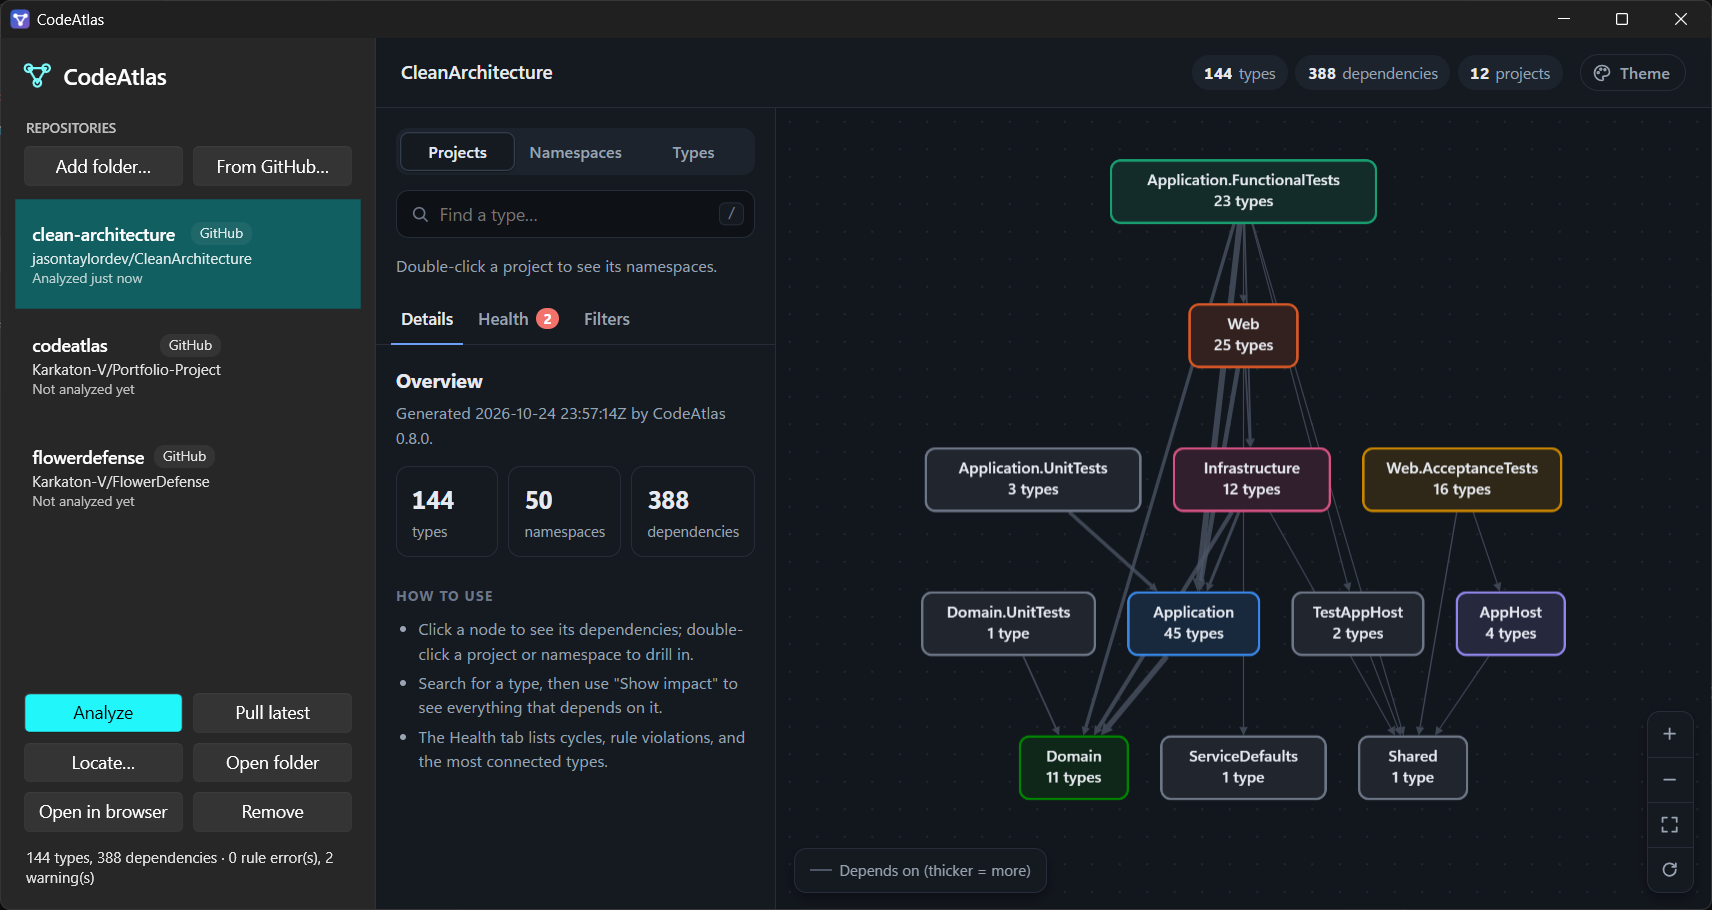
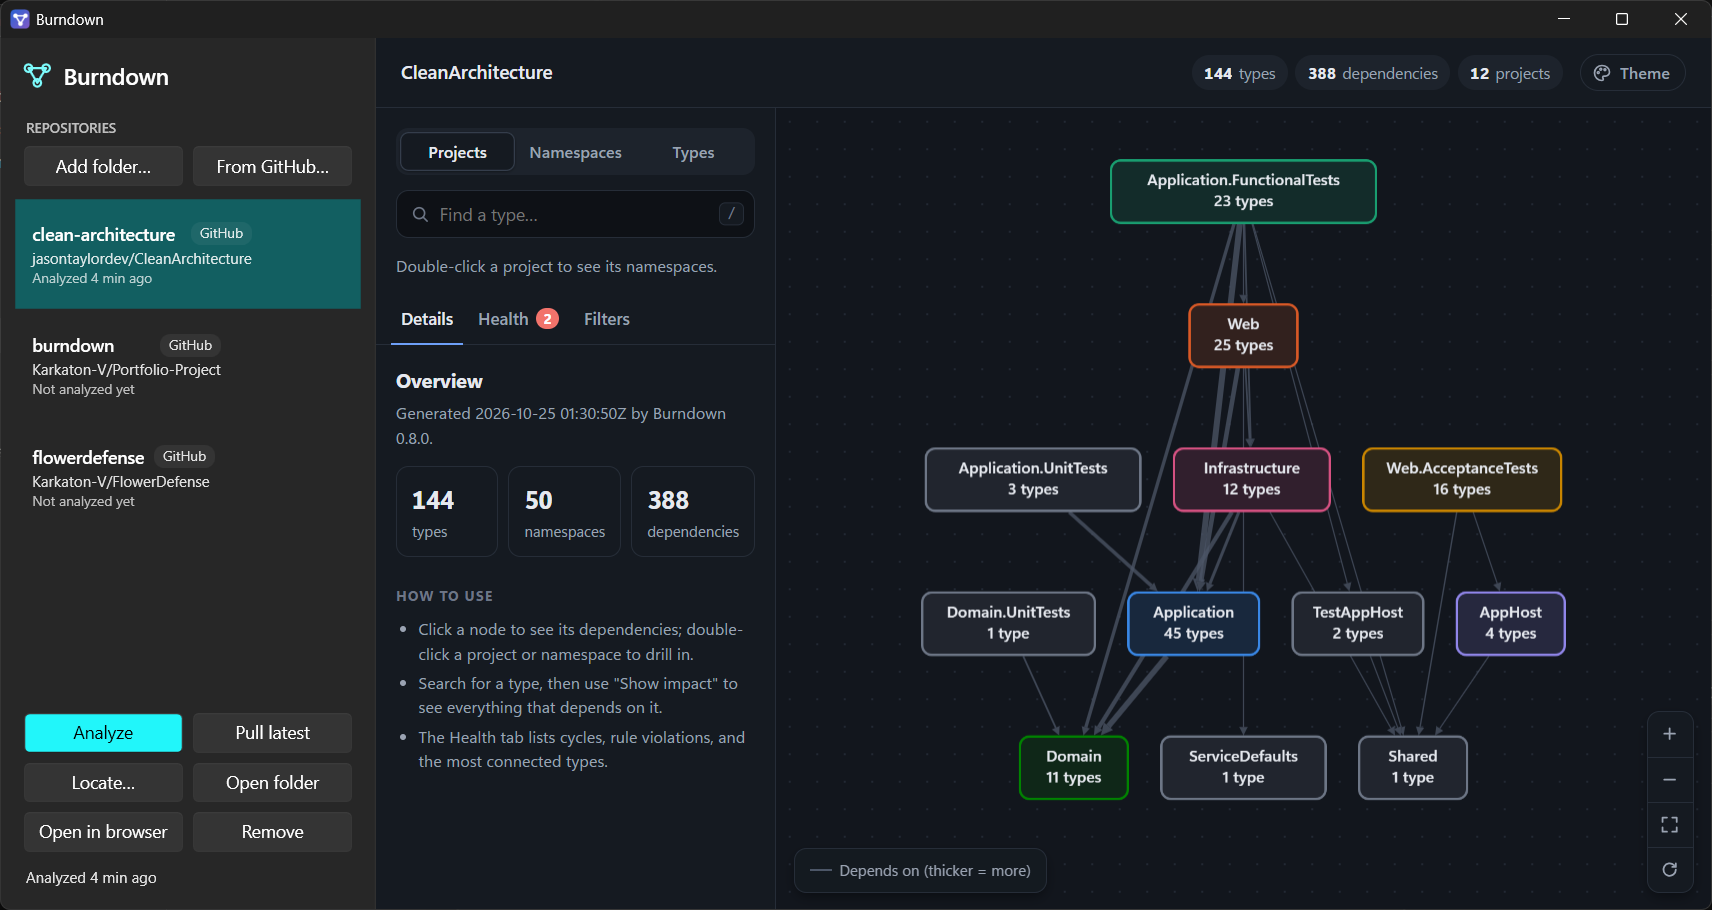
Rename CodeAtlas to Burndown
A nod to burndown charts: Burndown shows how much tangle is left in a
solution (cycles, rule violations, heavily depended-on types) so you can
burn it down.

- Desktop app is Burndown.exe; the CLI command is `burndown` (package
  Burndown.Tool, default output burndown-report.html)
- Report header, page title, SARIF tool name, README, and screenshots
- CI and the analyze workflow build and run burndown.dll
- C# namespaces, codeatlas.json, ~/.codeatlas, CODEATLAS_* variables, and
  the workflow file keep their names so existing setups keep working

diff --git a/src/CodeAtlas.Desktop/Views/MainWindow.xaml b/src/CodeAtlas.Desktop/Views/MainWindow.xaml
@@ -7,7 +7,7 @@
         xmlns:vm="clr-namespace:CodeAtlas.Desktop.ViewModels"
         mc:Ignorable="d"
         d:DataContext="{d:DesignInstance Type=vm:MainViewModel}"
-        Title="CodeAtlas"
+        Title="Burndown"
         Width="1440" Height="900" MinWidth="960" MinHeight="600"
         WindowStartupLocation="CenterScreen"
         Icon="/Assets/codeatlas.ico">
@@ -34,7 +34,7 @@
                         <Path Data="{StaticResource LogoGeometry}" Width="22" Height="22" Stretch="Uniform"
                               Stroke="{DynamicResource AccentTextFillColorPrimaryBrush}" StrokeThickness="1.8"
                               StrokeLineJoin="Round" StrokeStartLineCap="Round" StrokeEndLineCap="Round" />
-                        <TextBlock Text="CodeAtlas" FontSize="18" FontWeight="SemiBold" Margin="10,0,0,0" VerticalAlignment="Center" />
+                        <TextBlock Text="Burndown" FontSize="18" FontWeight="SemiBold" Margin="10,0,0,0" VerticalAlignment="Center" />
                     </StackPanel>
 
                     <TextBlock Text="REPOSITORIES" Style="{StaticResource SectionLabel}" Margin="2,22,0,8" />
@@ -71,7 +71,7 @@
                             <ColumnDefinition Width="*" />
                         </Grid.ColumnDefinitions>
                         <Button Grid.Column="0" Content="Locate…" HorizontalAlignment="Stretch" Click="Locate_Click"
-                                IsEnabled="{Binding CanLocate}" ToolTip="Tell CodeAtlas where this repository is on your computer" />
+                                IsEnabled="{Binding CanLocate}" ToolTip="Tell Burndown where this repository is on your computer" />
                         <Button Grid.Column="2" Content="Open folder" HorizontalAlignment="Stretch" Command="{Binding OpenFolderCommand}"
                                 ToolTip="Open the repository's folder" />
                     </Grid>

diff --git a/src/CodeAtlas.Report/Assets/report.js b/src/CodeAtlas.Report/Assets/report.js
@@ -1,4 +1,4 @@
-// CodeAtlas report viewer. The analysis already ran in C#; this script draws and filters the results.
+// Burndown report viewer. The analysis already ran in C#; this script draws and filters the results.
 // All names are inserted with textContent (never innerHTML), so source code can't inject markup.
 (() => {
   'use strict';
@@ -32,7 +32,7 @@
   const prefersDark = matchMedia('(prefers-color-scheme: dark)');
   const isDark = () => appearance.mode === 'dark' || (appearance.mode === 'auto' && prefersDark.matches);
 
-  // Inside the CodeAtlas desktop app (#embedded=1) the window already shows the app's name and logo.
+  // Inside the Burndown desktop app (#embedded=1) the window already shows the app's name and logo.
   if (hash.get('embedded') === '1') document.documentElement.dataset.embedded = 'true';
 
   function applyAppearance() {
@@ -745,7 +745,7 @@
     const namespaces = new Set(data.nodes.map(n => n.namespace)).size;
     setChildren(detailsPanel, 
       el('h2', { text: 'Overview' }),
-      el('p', { class: 'subtle', text: `Generated ${data.generatedAt}${data.toolVersion ? ` by CodeAtlas ${data.toolVersion}` : ''}.` }),
+      el('p', { class: 'subtle', text: `Generated ${data.generatedAt}${data.toolVersion ? ` by Burndown ${data.toolVersion}` : ''}.` }),
       el('div', { class: 'metrics' },
         metric(data.nodes.length, 'types'), metric(namespaces, 'namespaces'), metric(data.edges.length, 'dependencies')),
       el('h3', { text: 'How to use' }),

diff --git a/src/CodeAtlas.Report/Assets/report.html b/src/CodeAtlas.Report/Assets/report.html
@@ -3,8 +3,8 @@
 <head>
   <meta charset="utf-8">
   <meta name="viewport" content="width=device-width, initial-scale=1">
-  <meta name="generator" content="CodeAtlas">
-  <title>{{TITLE}} · CodeAtlas</title>
+  <meta name="generator" content="Burndown">
+  <title>{{TITLE}} · Burndown</title>
   <style>/*{{STYLES}}*/</style>
 </head>
 <body>
@@ -16,7 +16,7 @@
         <circle cx="18" cy="7" r="2.6" />
         <circle cx="12" cy="17" r="2.6" />
       </svg>
-      <span>CodeAtlas</span>
+      <span>Burndown</span>
     </div>
     <span class="divider" aria-hidden="true"></span>
     <h1 id="title"></h1>

diff --git a/src/CodeAtlas.Desktop/App.xaml b/src/CodeAtlas.Desktop/App.xaml
@@ -7,7 +7,7 @@
     <Application.Resources>
         <BooleanToVisibilityConverter x:Key="BoolToVisibility" />
 
-        <!-- The CodeAtlas mark: three connected nodes, as in the report header. -->
+        <!-- The Burndown mark: three connected nodes, as in the report header. -->
         <Geometry x:Key="LogoGeometry">M6,7 L12,17 M18,7 L12,17 M6,7 L18,7 M8.6,7 A2.6,2.6 0 1 1 3.4,7 A2.6,2.6 0 1 1 8.6,7 M20.6,7 A2.6,2.6 0 1 1 15.4,7 A2.6,2.6 0 1 1 20.6,7 M14.6,17 A2.6,2.6 0 1 1 9.4,17 A2.6,2.6 0 1 1 14.6,17</Geometry>
 
         <Style x:Key="SecondaryText" TargetType="TextBlock">

diff --git a/src/CodeAtlas.Desktop/Views/MainWindow.xaml.cs b/src/CodeAtlas.Desktop/Views/MainWindow.xaml.cs
@@ -27,7 +27,7 @@ public partial class MainWindow : Window
         // Program Files, so use the user's local app data. This must be set before the viewer starts.
         Viewer.CreationProperties = new CoreWebView2CreationProperties
         {
-            UserDataFolder = Path.Combine(Environment.GetFolderPath(Environment.SpecialFolder.LocalApplicationData), "CodeAtlas", "WebView2"),
+            UserDataFolder = Path.Combine(Environment.GetFolderPath(Environment.SpecialFolder.LocalApplicationData), "Burndown", "WebView2"),
         };
         Viewer.CoreWebView2InitializationCompleted += OnViewerInitialized;
 
@@ -58,9 +58,9 @@ public partial class MainWindow : Window
         {
             MessageBox.Show(this,
                 "The report viewer needs the Microsoft Edge WebView2 Runtime, which comes with Windows 11. " +
-                "Install it from https://developer.microsoft.com/microsoft-edge/webview2/ and restart CodeAtlas.\n\n" +
+                "Install it from https://developer.microsoft.com/microsoft-edge/webview2/ and restart Burndown.\n\n" +
                 e.InitializationException?.Message,
-                "CodeAtlas", MessageBoxButton.OK, MessageBoxImage.Warning);
+                "Burndown", MessageBoxButton.OK, MessageBoxImage.Warning);
             return;
         }
 
@@ -129,7 +129,7 @@ public partial class MainWindow : Window
         if (repo.Repo.Managed)
         {
             var answer = MessageBox.Show(this,
-                $"Remove {repo.Name} from CodeAtlas?\n\nCodeAtlas downloaded this repository to {repo.Repo.Path}. " +
+                $"Remove {repo.Name} from Burndown?\n\nBurndown downloaded this repository to {repo.Repo.Path}. " +
                 "Choose Yes to delete that copy too, or No to keep the files.",
                 "Remove repository", MessageBoxButton.YesNoCancel, MessageBoxImage.Question, MessageBoxResult.Cancel);
             if (answer != MessageBoxResult.Cancel)
@@ -138,7 +138,7 @@ public partial class MainWindow : Window
             }
         }
         else if (MessageBox.Show(this,
-                     $"Remove {repo.Name} from CodeAtlas? Your files at {repo.Repo.Path} aren't touched.",
+                     $"Remove {repo.Name} from Burndown? Your files at {repo.Repo.Path} aren't touched.",
                      "Remove repository", MessageBoxButton.OKCancel, MessageBoxImage.Question) == MessageBoxResult.OK)
         {
             _viewModel.Remove(repo, deleteClone: false);

diff --git a/src/CodeAtlas.Desktop/ViewModels/MainViewModel.cs b/src/CodeAtlas.Desktop/ViewModels/MainViewModel.cs
@@ -90,7 +90,7 @@ public sealed partial class MainViewModel : ObservableObject
             ReportUri = null;
             PlaceholderTitle = Repos.Count == 0 ? "Add a repository to get started" : "Pick a repository";
             PlaceholderText = Repos.Count == 0
-                ? "Add a folder that contains a C# solution, or pick one of your GitHub repositories. CodeAtlas maps how its types depend on each other."
+                ? "Add a folder that contains a C# solution, or pick one of your GitHub repositories. Burndown maps how its types depend on each other."
                 : "Choose a repository on the left to see its dependency map.";
             return;
         }
@@ -254,7 +254,7 @@ public sealed partial class MainViewModel : ObservableObject
 
     private bool CanOpen() => SelectedRepo is not null;
 
-    /// <summary>Removes a repository from the list. A clone CodeAtlas made can be deleted too.</summary>
+    /// <summary>Removes a repository from the list. A clone Burndown made can be deleted too.</summary>
     public void Remove(RepoViewModel repo, bool deleteClone)
     {
         _registry.Remove(repo.Name);
@@ -262,7 +262,7 @@ public sealed partial class MainViewModel : ObservableObject
         Repos.Remove(repo);
         TryDelete(repo.ReportPath);
 
-        // Only ever delete inside CodeAtlas's own clones folder, never a folder the user added themselves.
+        // Only ever delete inside Burndown's own clones folder, never a folder the user added themselves.
         if (deleteClone && repo.Repo.Managed && IsInside(repo.Repo.Path, _registry.ClonesDirectory))
         {
             Tools.DeleteClone(repo.Repo.Path);
@@ -315,7 +315,7 @@ public sealed partial class MainViewModel : ObservableObject
             }
             else if (repo.GitHub is null)
             {
-                throw new DirectoryNotFoundException($"{repo.Path} doesn't exist anymore. Use Locate to point CodeAtlas at where it is now.");
+                throw new DirectoryNotFoundException($"{repo.Path} doesn't exist anymore. Use Locate to point Burndown at where it is now.");
             }
 
             // 3. No usable local copy of a GitHub repository: analyze it on GitHub's servers.

diff --git a/src/CodeAtlas.Repos/GitHubClient.cs b/src/CodeAtlas.Repos/GitHubClient.cs
@@ -5,7 +5,7 @@ using System.Text.RegularExpressions;
 
 namespace CodeAtlas.Repos;
 
-/// <summary>A repository as the GitHub API describes it (the fields CodeAtlas uses).</summary>
+/// <summary>A repository as the GitHub API describes it (the fields Burndown uses).</summary>
 /// <param name="Language">GitHub's guess at the main language, e.g. "C#"; null for empty repositories.</param>
 public sealed record GitHubRepo(
     string FullName,
@@ -19,7 +19,7 @@ public sealed record GitHubRepo(
     public bool IsCSharp => string.Equals(Language, "C#", StringComparison.OrdinalIgnoreCase);
 }
 
-/// <summary>A GitHub request failed. The message is written for the person using CodeAtlas.</summary>
+/// <summary>A GitHub request failed. The message is written for the person using Burndown.</summary>
 public sealed class GitHubException(string message) : Exception(message);
 
 /// <summary>A GitHub Actions workflow run.</summary>
@@ -31,7 +31,7 @@ public sealed record WorkflowRun(long Id, string Status, string? Conclusion, str
 }
 
 /// <summary>
-/// A small client for the GitHub REST API: just the calls CodeAtlas needs. Takes an <see cref="HttpClient"/>
+/// A small client for the GitHub REST API: just the calls Burndown needs. Takes an <see cref="HttpClient"/>
 /// so tests can substitute the network.
 /// </summary>
 public sealed partial class GitHubClient(HttpClient http, string token)
@@ -173,7 +173,7 @@ public sealed partial class GitHubClient(HttpClient http, string token)
         using var request = new HttpRequestMessage(method ?? HttpMethod.Get, uri) { Content = content };
         request.Headers.Authorization = new AuthenticationHeaderValue("Bearer", token);
         request.Headers.Accept.Add(new MediaTypeWithQualityHeaderValue("application/vnd.github+json"));
-        request.Headers.UserAgent.Add(new ProductInfoHeaderValue("CodeAtlas", "1.0"));
+        request.Headers.UserAgent.Add(new ProductInfoHeaderValue("Burndown", "1.0"));
         request.Headers.Add("X-GitHub-Api-Version", "2022-11-28");
 
         var response = await http.SendAsync(request, HttpCompletionOption.ResponseHeadersRead, cancellationToken);

diff --git a/src/CodeAtlas.Cli/Program.cs b/src/CodeAtlas.Cli/Program.cs
@@ -45,19 +45,19 @@ static int PrintUsage(TextWriter writer, int exitCode)
         """
 
         Usage:
-          codeatlas init    [input] [--force]
-          codeatlas analyze [input] [-o <graph.json>]
-          codeatlas cycles  [input] [--level namespace|type]
-          codeatlas impact  [input] <type> [--depth <n>] [--kinds <kind,...>]
-          codeatlas check   [input] [--sarif <file>] [--path-prefix <dir>]
-          codeatlas report  [input] [-o <report.html>] [--title <text>] [--theme <name>]
+          burndown init    [input] [--force]
+          burndown analyze [input] [-o <graph.json>]
+          burndown cycles  [input] [--level namespace|type]
+          burndown impact  [input] <type> [--depth <n>] [--kinds <kind,...>]
+          burndown check   [input] [--sarif <file>] [--path-prefix <dir>]
+          burndown report  [input] [-o <report.html>] [--title <text>] [--theme <name>]
 
-        Saved repos (shared with the CodeAtlas desktop app):
-          codeatlas repos                       List saved repos
-          codeatlas repos add <folder|owner/name> [--name <name>] [--no-restore]
-          codeatlas repos remove <name>         Forget a repo (files are left in place)
-          codeatlas repos pull <name>           Pull the latest commits of a repo added from GitHub
-          codeatlas repos github [--all]        List your GitHub repos (C# ones unless --all)
+        Saved repos (shared with the Burndown desktop app):
+          burndown repos                       List saved repos
+          burndown repos add <folder|owner/name> [--name <name>] [--no-restore]
+          burndown repos remove <name>         Forget a repo (files are left in place)
+          burndown repos pull <name>           Pull the latest commits of a repo added from GitHub
+          burndown repos github [--all]        List your GitHub repos (C# ones unless --all)
 
         [input] is a folder (default: the current folder), a .sln, .slnx, or .csproj file, a graph.json
         written by `analyze -o`, or @name for a saved repo. A folder is searched for its solution, including a

diff --git a/src/CodeAtlas.Cli/Commands/ReposCommand.cs b/src/CodeAtlas.Cli/Commands/ReposCommand.cs
@@ -4,8 +4,8 @@ using CodeAtlas.Repos;
 namespace CodeAtlas.Cli.Commands;
 
 /// <summary>
-/// <c>codeatlas repos</c>: the saved repositories shared with the desktop app. A saved repository can be used
-/// as the input of any command with <c>@name</c>, e.g. <c>codeatlas check @shop</c>.
+/// <c>burndown repos</c>: the saved repositories shared with the desktop app. A saved repository can be used
+/// as the input of any command with <c>@name</c>, e.g. <c>burndown check @shop</c>.
 /// </summary>
 internal static class ReposCommand
 {
@@ -28,7 +28,7 @@ internal static class ReposCommand
     {
         if (registry.Repos.Count == 0)
         {
-            Console.WriteLine("No saved repos yet. Add one with `codeatlas repos add <folder or owner/name>`.");
+            Console.WriteLine("No saved repos yet. Add one with `burndown repos add <folder or owner/name>`.");
             return ExitCodes.Success;
         }
 
@@ -40,7 +40,7 @@ internal static class ReposCommand
         }
 
         Console.WriteLine();
-        Console.WriteLine(Ansi.Dim($"Use one with any command, e.g. `codeatlas report @{registry.Repos[0].Name}`. Saved in {registry.Home}."));
+        Console.WriteLine(Ansi.Dim($"Use one with any command, e.g. `burndown report @{registry.Repos[0].Name}`. Saved in {registry.Home}."));
         return ExitCodes.Success;
     }
 
@@ -130,7 +130,7 @@ internal static class ReposCommand
         var name = arguments.Positionals[0];
         if (!registry.Remove(name))
         {
-            throw new UsageException($"No saved repo named '{name}'. Run `codeatlas repos` to list them.", showUsage: false);
+            throw new UsageException($"No saved repo named '{name}'. Run `burndown repos` to list them.", showUsage: false);
         }
 
         registry.Save();
@@ -227,7 +227,7 @@ internal static class ReposCommand
         }
 
         Console.WriteLine();
-        Console.WriteLine(Ansi.Dim("Add one with `codeatlas repos add owner/name`."));
+        Console.WriteLine(Ansi.Dim("Add one with `burndown repos add owner/name`."));
         return ExitCodes.Success;
     }
 

diff --git a/src/CodeAtlas.Cli/CliSupport.cs b/src/CodeAtlas.Cli/CliSupport.cs
@@ -97,7 +97,7 @@ internal sealed record Session(string Input, ArchitectureConfig? Config, string?
     /// <param name="input">A solution, project, graph.json, folder, or null for the current folder.</param>
     /// <param name="configOption">An explicit <c>--config</c> path; otherwise codeatlas.json is looked up from the input's folder.</param>
     /// <param name="excludeOption">Comma-separated <c>--exclude</c> patterns, added to the config's.</param>
-    /// <param name="requireConfig">Fail with a hint to run <c>codeatlas init</c> when no config is found.</param>
+    /// <param name="requireConfig">Fail with a hint to run <c>burndown init</c> when no config is found.</param>
     public static async Task<Session> OpenAsync(
         string? input,
         string? configOption,
@@ -118,7 +118,7 @@ internal sealed record Session(string Input, ArchitectureConfig? Config, string?
         {
             throw new UsageException(
                 $"No {ConfigFileName} found in {inputDirectory} or its parent folders. " +
-                "Run `codeatlas init` to generate one for this solution, or pass --config.",
+                "Run `burndown init` to generate one for this solution, or pass --config.",
                 showUsage: false);
         }
 
@@ -169,11 +169,11 @@ internal sealed record Session(string Input, ArchitectureConfig? Config, string?
 
     private static string ResolveInput(string? input)
     {
-        // @name: a repo saved with `codeatlas repos add` or the desktop app.
+        // @name: a repo saved with `burndown repos add` or the desktop app.
         if (input is not null && input.StartsWith('@'))
         {
             var saved = Repos.RepoRegistry.Load().Find(input)
-                ?? throw new UsageException($"No saved repo named '{input}'. Run `codeatlas repos` to list them.", showUsage: false);
+                ?? throw new UsageException($"No saved repo named '{input}'. Run `burndown repos` to list them.", showUsage: false);
             input = saved.Path;
         }
 

diff --git a/src/CodeAtlas.Repos/Tools.cs b/src/CodeAtlas.Repos/Tools.cs
@@ -7,14 +7,14 @@ namespace CodeAtlas.Repos;
 public sealed class ToolException(string message) : Exception(message);
 
 /// <summary>
-/// Runs the command-line tools CodeAtlas relies on. Arguments go through <see cref="ProcessStartInfo.ArgumentList"/>,
+/// Runs the command-line tools Burndown relies on. Arguments go through <see cref="ProcessStartInfo.ArgumentList"/>,
 /// never a single command string, so a repository name can't be interpreted as extra arguments.
 /// </summary>
 public static class Tools
 {
     /// <summary>
     /// The user's GitHub token: <c>GH_TOKEN</c> or <c>GITHUB_TOKEN</c> if set, otherwise the GitHub CLI's
-    /// (<c>gh auth token</c>). CodeAtlas only holds it in memory for the request; it is never written anywhere.
+    /// (<c>gh auth token</c>). Burndown only holds it in memory for the request; it is never written anywhere.
     /// </summary>
     public static async Task<string?> FindGitHubTokenAsync(CancellationToken cancellationToken = default)
     {
@@ -37,7 +37,7 @@ public static class Tools
         }
     }
 
-    /// <summary>A shallow clone (latest commit only): fast, and all CodeAtlas needs.</summary>
+    /// <summary>A shallow clone (latest commit only): fast, and all Burndown needs.</summary>
     public static Task CloneAsync(GitHubRepoRef repo, string destination, CancellationToken cancellationToken = default)
     {
         Directory.CreateDirectory(Path.GetDirectoryName(destination) ?? destination);
@@ -45,7 +45,7 @@ public static class Tools
     }
 
     /// <summary>
-    /// Deletes a clone CodeAtlas made. Git marks its object files read-only, which makes a plain recursive
+    /// Deletes a clone Burndown made. Git marks its object files read-only, which makes a plain recursive
     /// delete fail on Windows, so clear that first. Failures are ignored: the files can be removed by hand.
     /// </summary>
     public static void DeleteClone(string folder)

diff --git a/src/CodeAtlas.Core/Rules/ConfigGenerator.cs b/src/CodeAtlas.Core/Rules/ConfigGenerator.cs
@@ -13,7 +13,7 @@ public sealed record GeneratedConfig(
     int RuleCount);
 
 /// <summary>
-/// Writes a starter <c>codeatlas.json</c> for any solution (<c>codeatlas init</c>). Projects are sorted into
+/// Writes a starter <c>codeatlas.json</c> for any solution (<c>burndown init</c>). Projects are sorted into
 /// layers by the naming conventions most .NET solutions follow (Domain/Core, Application/Services,
 /// Infrastructure/Persistence/Data, Web/Api/UI, and test projects), then the usual layering rules are written
 /// for the layers that exist. It's a starting point: the comments tell the reader what to review.
@@ -74,8 +74,8 @@ public static class ConfigGenerator
 
         var json = new StringBuilder();
         json.AppendLine("{");
-        json.AppendLine($"  // Generated by `codeatlas init` for {solutionName}.");
-        json.AppendLine("  // Layers were guessed from project names: review them, then run `codeatlas check`.");
+        json.AppendLine($"  // Generated by `burndown init` for {solutionName}.");
+        json.AppendLine("  // Layers were guessed from project names: review them, then run `burndown check`.");
         json.AppendLine("  // A layer lists selectors: \"project:Name\" selects a project, \"My.Namespace.**\" a namespace and");
         json.AppendLine("  // everything under it. See the README's \"Architecture rules\" section for every option.");
         if (unassigned.Count > 0)
